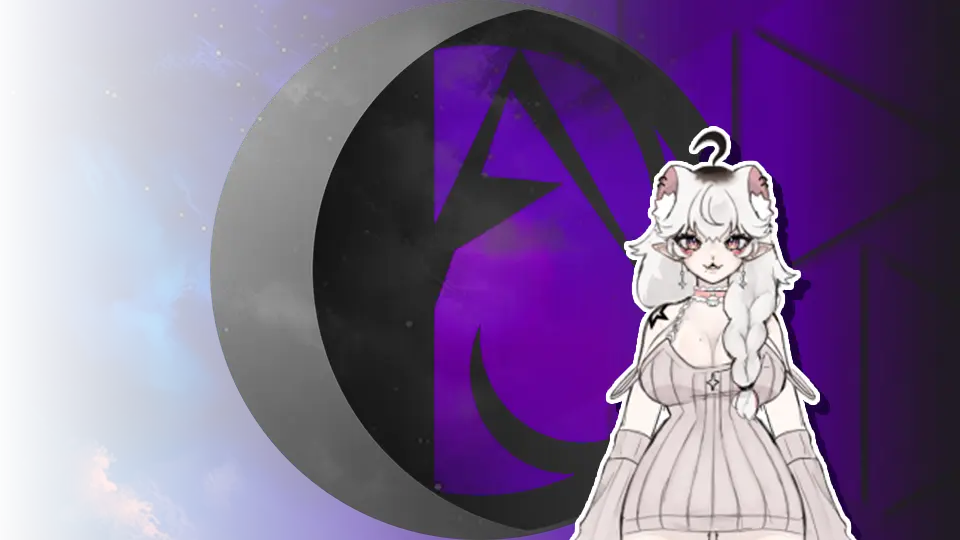
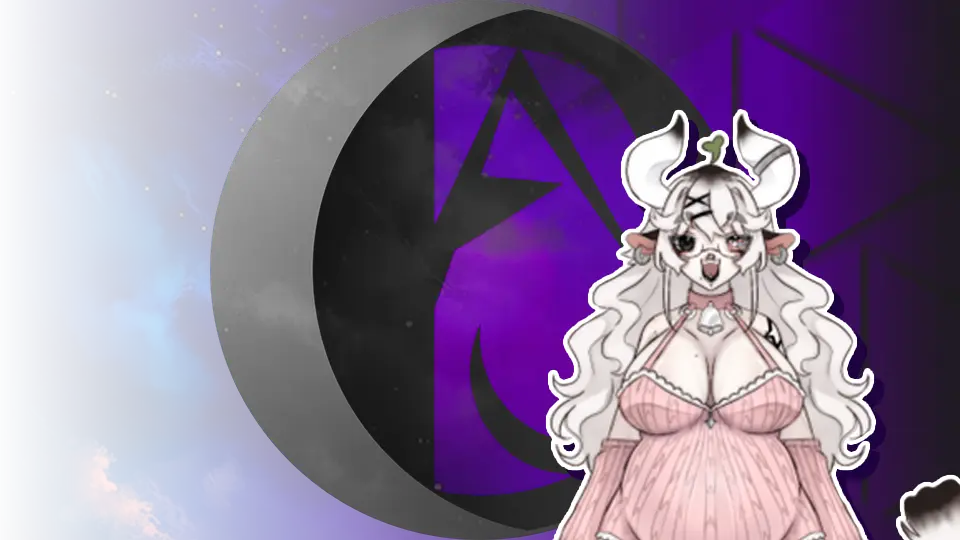
Saiu: Itsuki - Entraram: Bella e Clara

Changed region(s): [[0.5625, 0.2074, 0.9375, 1.0], [0.9375, 0.8593, 1.0, 1.0]]

diff --git a/index.html b/index.html
@@ -29,7 +29,7 @@
     <div class="slideshow-container">
 
         <div class="slideshow fade imgSlides">
-            <div class="numeracao">1 / 15</div>
+            <div class="numeracao">1 / 16</div>
             <div class="imgSlide IS01"></div>
             <div class="legenda">UM MULTIVERSO<br>
 				DE POSSIBILIDADES!
@@ -37,7 +37,7 @@
         </div>
 
         <div class="slideshow fade imgSlides">
-            <div class="numeracao">2 / 15</div>
+            <div class="numeracao">2 / 16</div>
             <div class="imgSlide IS02"></div>
             <div class="legenda">UM MULTIVERSO<br>
 				DE POSSIBILIDADES!
@@ -45,7 +45,7 @@
         </div>
 
         <div class="slideshow fade imgSlides">
-            <div class="numeracao">3 / 15</div>
+            <div class="numeracao">3 / 16</div>
             <div class="imgSlide IS03"></div>
             <div class="legenda">UM MULTIVERSO<br>
 				DE POSSIBILIDADES!
@@ -53,7 +53,7 @@
         </div>
 
         <div class="slideshow fade imgSlides">
-            <div class="numeracao">4 / 15</div>
+            <div class="numeracao">4 / 16</div>
             <div class="imgSlide IS04"></div>
             <div class="legenda">UM MULTIVERSO<br>
 				DE POSSIBILIDADES!
@@ -61,7 +61,7 @@
         </div>
 
         <div class="slideshow fade imgSlides">
-            <div class="numeracao">5 / 15</div>
+            <div class="numeracao">5 / 16</div>
             <div class="imgSlide IS05"></div>
             <div class="legenda">UM MULTIVERSO<br>
 				DE POSSIBILIDADES!
@@ -69,7 +69,7 @@
         </div>
 
         <div class="slideshow fade imgSlides">
-            <div class="numeracao">6 / 15</div>
+            <div class="numeracao">6 / 16</div>
             <div class="imgSlide IS06"></div>
             <div class="legenda">UM MULTIVERSO<br>
 				DE POSSIBILIDADES!
@@ -77,7 +77,7 @@
         </div>
 
         <div class="slideshow fade imgSlides">
-            <div class="numeracao">7 / 15</div>
+            <div class="numeracao">7 / 16</div>
             <div class="imgSlide IS07"></div>
             <div class="legenda">UM MULTIVERSO<br>
 				DE POSSIBILIDADES!
@@ -85,7 +85,7 @@
         </div>
 
         <div class="slideshow fade imgSlides">
-            <div class="numeracao">8 / 15</div>
+            <div class="numeracao">8 / 16</div>
             <div class="imgSlide IS08"></div>
             <div class="legenda">UM MULTIVERSO<br>
 				DE POSSIBILIDADES!
@@ -93,7 +93,7 @@
         </div>
 
         <div class="slideshow fade imgSlides">
-            <div class="numeracao">9 / 15</div>
+            <div class="numeracao">9 / 16</div>
             <div class="imgSlide IS09"></div>
             <div class="legenda">UM MULTIVERSO<br>
 				DE POSSIBILIDADES!
@@ -101,7 +101,7 @@
         </div>
 
         <div class="slideshow fade imgSlides">
-            <div class="numeracao">10 / 15</div>
+            <div class="numeracao">10 / 16</div>
             <div class="imgSlide IS10"></div>
             <div class="legenda">UM MULTIVERSO<br>
 				DE POSSIBILIDADES!
@@ -109,7 +109,7 @@
         </div>
 
         <div class="slideshow fade imgSlides">
-            <div class="numeracao">11 / 15</div>
+            <div class="numeracao">11 / 16</div>
             <div class="imgSlide IS11"></div>
             <div class="legenda">UM MULTIVERSO<br>
 				DE POSSIBILIDADES!
@@ -117,7 +117,7 @@
         </div>
 
         <div class="slideshow fade imgSlides">
-            <div class="numeracao">12 / 15</div>
+            <div class="numeracao">12 / 16</div>
             <div class="imgSlide IS12"></div>
             <div class="legenda">UM MULTIVERSO<br>
 				DE POSSIBILIDADES!
@@ -125,7 +125,7 @@
         </div>
 
         <div class="slideshow fade imgSlides">
-            <div class="numeracao">13 / 15</div>
+            <div class="numeracao">13 / 16</div>
             <div class="imgSlide IS13"></div>
             <div class="legenda">UM MULTIVERSO<br>
 				DE POSSIBILIDADES!
@@ -133,7 +133,7 @@
         </div>
 
         <div class="slideshow fade imgSlides">
-            <div class="numeracao">14 / 15</div>
+            <div class="numeracao">14 / 16</div>
             <div class="imgSlide IS14"></div>
             <div class="legenda">UM MULTIVERSO<br>
 				DE POSSIBILIDADES!
@@ -141,8 +141,16 @@
         </div>
 
         <div class="slideshow fade imgSlides">
-            <div class="numeracao">15 / 15</div>
+            <div class="numeracao">15 / 16</div>
             <div class="imgSlide IS15"></div>
+            <div class="legenda">UM MULTIVERSO<br>
+				DE POSSIBILIDADES!
+		    </div>
+        </div>
+
+        <div class="slideshow fade imgSlides">
+            <div class="numeracao">16 / 16</div>
+            <div class="imgSlide IS16"></div>
             <div class="legenda">UM MULTIVERSO<br>
 				DE POSSIBILIDADES!
 		    </div>
@@ -169,6 +177,7 @@
         <span class="dot" onclick="currentSlide(13)"></span>
         <span class="dot" onclick="currentSlide(14)"></span>
         <span class="dot" onclick="currentSlide(15)"></span>
+        <span class="dot" onclick="currentSlide(16)"></span>
     </div>
 
     <div align="center">
@@ -181,6 +190,12 @@
         <div title="Clique para ver mais informa&ccedil;&otilde;es">
             <a href='https://linktr.ee/ayanosano' target='_blank'>
             <img src="Imagens/Card_Ayano_Sano.webp"
+            alt="" class="capas CF"> </a>
+        </div>
+
+        <div title="Clique para ver mais informa&ccedil;&otilde;es">
+            <a href='https://linktr.ee/ayanosano' target='_blank'>
+            <img src="Imagens/Card_Bella_Naomi.webp"
             alt="" class="capas CF"> </a>
         </div>
 
@@ -209,12 +224,6 @@
         </div>
 
         <div title="Clique para ver mais informa&ccedil;&otilde;es">
-            <a href='https://owitsukiart.carrd.co' target='_blank'>
-            <img src="Imagens/Card_Itsuki.webp"
-            alt="" class="capas CF"> </a>
-        </div>
-
-        <div title="Clique para ver mais informa&ccedil;&otilde;es">
             <a href='https://bsky.app/profile/jglbell.bsky.social' target='_blank'>
             <img src="Imagens/Card_Jingle_Bell.webp"
             alt="" class="capas CF"> </a>
@@ -229,6 +238,12 @@
         <div title="Clique para ver mais informa&ccedil;&otilde;es">
             <a href='https://kuroywh.carrd.co' target='_blank'>
             <img src="Imagens/Card_Kuroy_Wildhavoc.webp"
+            alt="" class="capas CF"> </a>
+        </div>
+
+        <div title="Clique para ver mais informa&ccedil;&otilde;es">
+            <a href='https://x.com/ladywiseplus' target='_blank'>
+            <img src="Imagens/Card_Lady_Clara_Reis.webp"
             alt="" class="capas CF"> </a>
         </div>
 

diff --git a/style.css b/style.css
@@ -287,20 +287,21 @@ section div:last-child{
 }
 
 .IS01{background-image: url(Imagens/ImgSl/IS-Ayano-Sano.webp); background-position: center; background-repeat: no-repeat; background-size: cover;}
-.IS02{background-image: url(Imagens/ImgSl/IS-Burrinha-Boco.webp); background-position: center;  background-repeat: no-repeat; background-size: cover;}
-.IS03{background-image: url(Imagens/ImgSl/IS-CoffeeSan.webp); background-position: center;  background-repeat: no-repeat; background-size: cover;}
-.IS04{background-image: url(Imagens/ImgSl/IS-Desu.webp); background-position: center; background-repeat: no-repeat; background-size: cover;}
-.IS05{background-image: url(Imagens/ImgSl/IS-Hino-Sana.webp); background-position: center; background-repeat: no-repeat; background-size: cover;}
-.IS06{background-image: url(Imagens/ImgSl/IS-Itsuki.webp); background-position: center; background-repeat: no-repeat; background-size: cover;}
+.IS02{background-image: url(Imagens/ImgSl/IS-Bella_Naomi.webp); background-position: center;  background-repeat: no-repeat; background-size: cover;}
+.IS03{background-image: url(Imagens/ImgSl/IS-Burrinha-Boco.webp); background-position: center;  background-repeat: no-repeat; background-size: cover;}
+.IS04{background-image: url(Imagens/ImgSl/IS-CoffeeSan.webp); background-position: center;  background-repeat: no-repeat; background-size: cover;}
+.IS05{background-image: url(Imagens/ImgSl/IS-Desu.webp); background-position: center; background-repeat: no-repeat; background-size: cover;}
+.IS06{background-image: url(Imagens/ImgSl/IS-Hino-Sana.webp); background-position: center; background-repeat: no-repeat; background-size: cover;}
 .IS07{background-image: url(Imagens/ImgSl/IS-Jingle-Bell.webp); background-position: center;  background-repeat: no-repeat; background-size: cover;}
 .IS08{background-image: url(Imagens/ImgSl/IS-Julia-Queen.webp); background-position: center; background-repeat: no-repeat; background-size: cover;}
 .IS09{background-image: url(Imagens/ImgSl/IS-Kuroy-Wildhavoc.webp); background-position: center; background-repeat: no-repeat; background-size: cover;}
-.IS10{background-image: url(Imagens/ImgSl/IS-Lady-Wise-Plus.webp); background-position: center;  background-repeat: no-repeat; background-size: cover;}
-.IS11{background-image: url(Imagens/ImgSl/IS-LauraNuub.webp); background-position: center; background-repeat: no-repeat; background-size: cover;}
-.IS12{background-image: url(Imagens/ImgSl/IS-Lykos-Apokryphos.webp); background-position: center; background-repeat: no-repeat; background-size: cover;}
-.IS13{background-image: url(Imagens/ImgSl/IS-Mei-Zukamori.webp); background-position: center;  background-repeat: no-repeat; background-size: cover;}
-.IS14{background-image: url(Imagens/ImgSl/IS-Nethozzeth.webp); background-position: center;  background-repeat: no-repeat; background-size: cover;}
-.IS15{background-image: url(Imagens/ImgSl/IS-Pudim.webp); background-position: center; background-repeat: no-repeat; background-size: cover;}
+.IS10{background-image: url(Imagens/ImgSl/IS-Lady_Clara_Reis.webp); background-position: center;  background-repeat: no-repeat; background-size: cover;}
+.IS11{background-image: url(Imagens/ImgSl/IS-Lady-Wise-Plus.webp); background-position: center;  background-repeat: no-repeat; background-size: cover;}
+.IS12{background-image: url(Imagens/ImgSl/IS-LauraNuub.webp); background-position: center; background-repeat: no-repeat; background-size: cover;}
+.IS13{background-image: url(Imagens/ImgSl/IS-Lykos-Apokryphos.webp); background-position: center; background-repeat: no-repeat; background-size: cover;}
+.IS14{background-image: url(Imagens/ImgSl/IS-Mei-Zukamori.webp); background-position: center;  background-repeat: no-repeat; background-size: cover;}
+.IS15{background-image: url(Imagens/ImgSl/IS-Nethozzeth.webp); background-position: center;  background-repeat: no-repeat; background-size: cover;}
+.IS16{background-image: url(Imagens/ImgSl/IS-Pudim.webp); background-position: center; background-repeat: no-repeat; background-size: cover;}
 
 .prev,
 .next{
